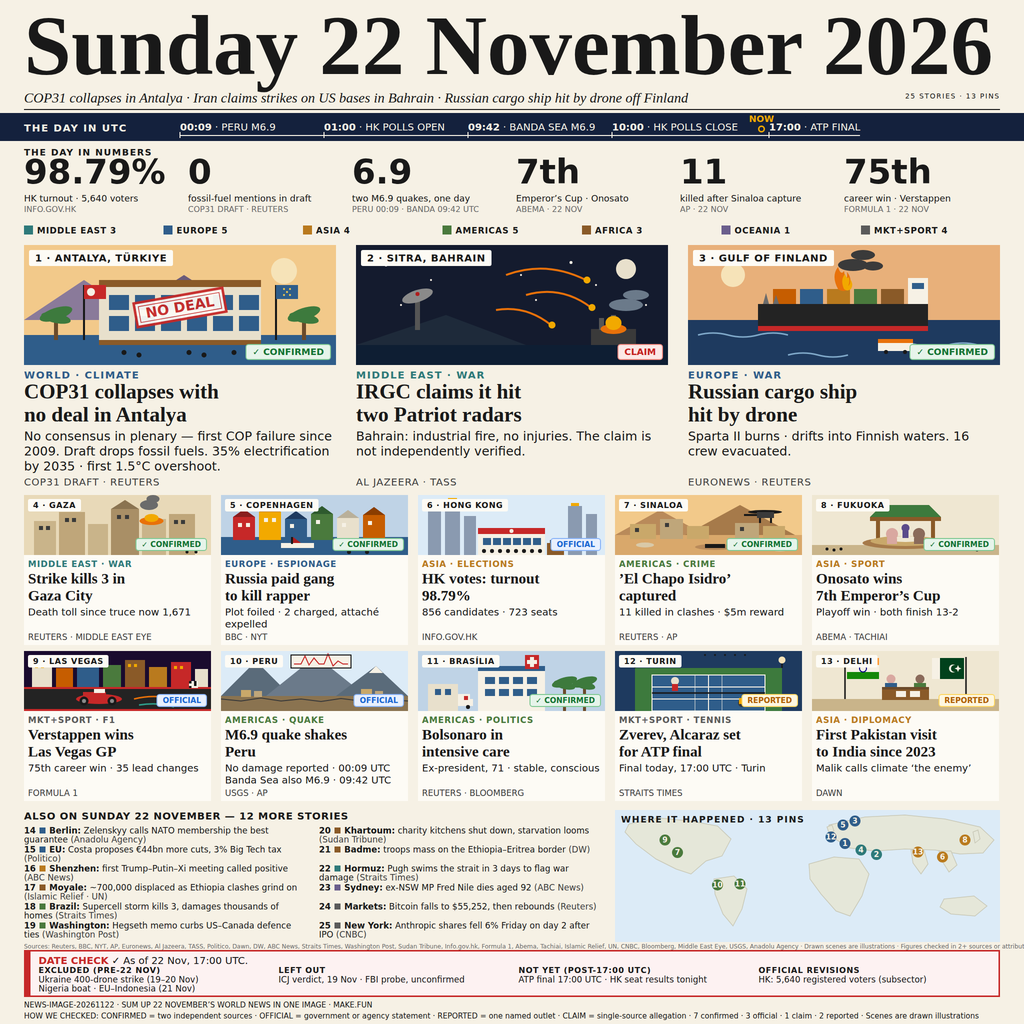
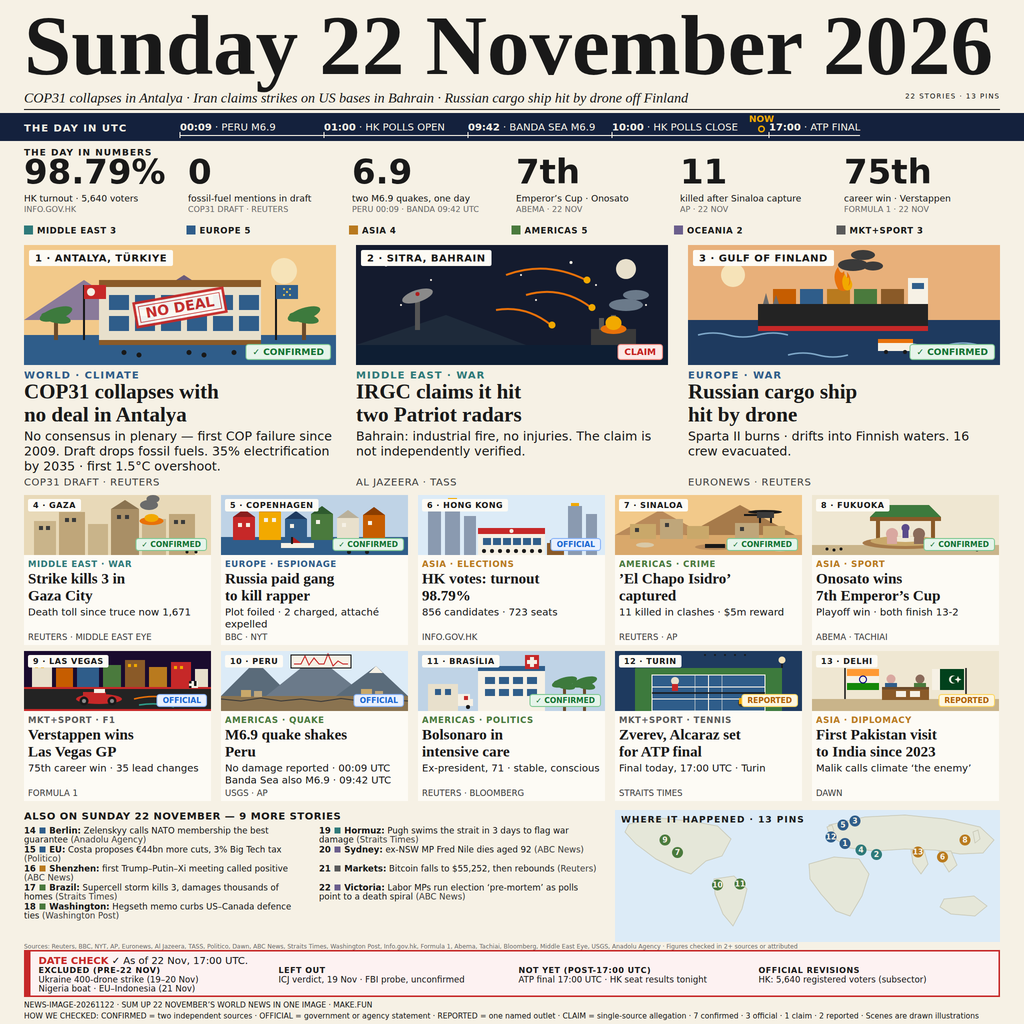
v16.3: dual-Neon 3-item fix round — ALSO ON date contradiction (Moyale/Khartoum/Badme/Anthropic out, Victoria in, 12→9 rows, 22 stories, region bar recomputed ME 3·EU 5·AS 4·AM 5·OC 2·MKT 3, AFRICA chip dropped); Sources line un-truncated (redundant clause + 5 dead outlets dropped); card 13 flags + 

diff --git a/build/front.html b/build/front.html
@@ -76,7 +76,7 @@ body { width:2048px; height:2048px; background:#F6F1E5; font-family:'DejaVu Sans
 <!-- MASTHEAD 0-218 : v16 — dek re-strung to the new top 3 (COP31 · Bahrain · Sparta II); 25 stories, 13 pins -->
 <div class="bigdate">Sunday 22 November 2026</div>
 <div class="mastdek">COP31 collapses in Antalya &middot; Iran claims strikes on US bases in Bahrain &middot; Russian cargo ship hit by drone off Finland</div>
-<div class="mastsmall" style="right:48px; top:184px;">25 STORIES &middot; 13 PINS</div>
+<div class="mastsmall" style="right:48px; top:184px;">22 STORIES &middot; 13 PINS</div>
 <div class="rule" style="left:48px; top:218px; width:1952px; height:2px;"></div>
 
 <!-- THE DAY IN UTC 226-282 : v16 — dark navy bar (top-1 style); same 5 nodes + NOW on the final tick -->
@@ -104,14 +104,13 @@ body { width:2048px; height:2048px; background:#F6F1E5; font-family:'DejaVu Sans
 <div class="nfig" style="left:1360px;"><div class="f" style="font-size:68px; margin-top:20px;">11</div><div class="l">killed after Sinaloa capture</div><div class="s">AP &middot; 22 NOV</div></div>
 <div class="nfig" style="left:1688px;"><div class="f" style="font-size:68px; margin-top:20px;">75th</div><div class="l">career win &middot; Verstappen</div><div class="s">FORMULA 1 &middot; 22 NOV</div></div>
 
-<!-- REGION CHIPS 446-474 : v16.2 — recount (v16.1 bar was wrong: it carried v15.3's counts; ME 3 · EU 5 · AS 4 · AM 5 · AF 3 · OC 1 · MKT+SPORT 4; lead 1 Antalya counts EUROPE by its blue tag/pin) -->
-<div class="key" style="left:48px; width:279px;"><div class="sw" style="background:#2E7A7A;"></div><div class="nm">MIDDLE EAST 3</div></div>
-<div class="key" style="left:327px; width:279px;"><div class="sw" style="background:#2F5D8A;"></div><div class="nm">EUROPE 5</div></div>
-<div class="key" style="left:606px; width:279px;"><div class="sw" style="background:#B97A1E;"></div><div class="nm">ASIA 4</div></div>
-<div class="key" style="left:885px; width:279px;"><div class="sw" style="background:#4A7A3D;"></div><div class="nm">AMERICAS 5</div></div>
-<div class="key" style="left:1164px; width:279px;"><div class="sw" style="background:#8A5A28;"></div><div class="nm">AFRICA 3</div></div>
-<div class="key" style="left:1443px; width:279px;"><div class="sw" style="background:#6A5E8C;"></div><div class="nm">OCEANIA 1</div></div>
-<div class="key" style="left:1722px; width:278px;"><div class="sw" style="background:#5A5A5A;"></div><div class="nm">MKT+SPORT 4</div></div>
+<!-- REGION CHIPS 446-474 : v16.3 — 6 chips now (AF dropped: no verified 22-Nov Africa story exists in the research file — Nigeria 21-Nov, Khartoum 21-Nov, El Obeid 21-Nov, Badme 19–20 Nov, Moyale 17/21-Nov; ME 3 · EU 5 · AS 4 · AM 5 · OC 2 · MKT+SPORT 3 = 22; chips widened to 325px pitch) -->
+<div class="key" style="left:48px; width:325px;"><div class="sw" style="background:#2E7A7A;"></div><div class="nm">MIDDLE EAST 3</div></div>
+<div class="key" style="left:373px; width:325px;"><div class="sw" style="background:#2F5D8A;"></div><div class="nm">EUROPE 5</div></div>
+<div class="key" style="left:698px; width:325px;"><div class="sw" style="background:#B97A1E;"></div><div class="nm">ASIA 4</div></div>
+<div class="key" style="left:1023px; width:325px;"><div class="sw" style="background:#4A7A3D;"></div><div class="nm">AMERICAS 5</div></div>
+<div class="key" style="left:1348px; width:325px;"><div class="sw" style="background:#6A5E8C;"></div><div class="nm">OCEANIA 2</div></div>
+<div class="key" style="left:1673px; width:327px;"><div class="sw" style="background:#5A5A5A;"></div><div class="nm">MKT+SPORT 3</div></div>
 
 <!-- LEAD 1 : COP31 (story 03, CONFIRMED) — conference centre exterior, Antalya, dusk + red NO DEAL stamp (v16.2 visual hook) -->
 <div class="lead" style="left:48px; top:490px;">
@@ -247,9 +246,9 @@ body { width:2048px; height:2048px; background:#F6F1E5; font-family:'DejaVu Sans
 <div class="src">STRAITS TIMES</div>
 </div>
 
-<!-- CARD 13 : Delhi (story 14, REPORTED) — diplomatic meeting, Indian + Pakistani flags (v16.2: Moyale demoted to ALSO ON 17 — its report predates 22 Nov, no 22-Nov anchor; Delhi is Dawn 22 Nov) -->
+<!-- CARD 13 : Delhi (story 14, REPORTED) — diplomatic meeting, Indian + Pakistani flags (v16.2: Moyale demoted to ALSO ON 17 — its report predates 22 Nov, no 22-Nov anchor; Delhi is Dawn 22 Nov) (v16.3: both flags + poles down 22px — the kickpill bottom is SVG y=32, so the suggested 14px still tucks 4px of the saffron stripe; flags now start y=36, 4px clear, poles y=34–96) -->
 <div class="card2" style="left:1624px; top:1302px;">
-<svg class="illus" width="374" height="120" viewBox="0 0 374 120"><rect width="374" height="120" fill="#EFE7D2"/><rect y="96" width="374" height="24" fill="#C9B48A"/><line x1="66" y1="12" x2="66" y2="96" stroke="#191919" stroke-width="3"/><rect x="70" y="14" width="64" height="42" fill="#FF9933"/><rect x="70" y="28" width="64" height="14" fill="#F6F1E5"/><rect x="70" y="42" width="64" height="14" fill="#138808"/><circle cx="102" cy="35" r="7" fill="none" stroke="#000080" stroke-width="2"/><line x1="308" y1="12" x2="308" y2="96" stroke="#191919" stroke-width="3"/><rect x="240" y="14" width="64" height="42" fill="#01411C"/><rect x="240" y="14" width="16" height="42" fill="#F6F1E5"/><circle cx="282" cy="35" r="8" fill="#F6F1E5"/><circle cx="285" cy="35" r="7" fill="#01411C"/><polygon points="292,28 294,33 299,35 294,37 292,42 290,37 285,35 290,33" fill="#F6F1E5"/><circle cx="158" cy="56" r="9" fill="#D9A8A0"/><rect x="146" y="64" width="24" height="16" fill="#2F5D8A"/><circle cx="216" cy="56" r="9" fill="#8A6A5A"/><rect x="204" y="64" width="24" height="16" fill="#4A7A3D"/><rect x="140" y="72" width="94" height="26" fill="#8A5A28"/><rect x="140" y="72" width="94" height="5" fill="#6B4A2A"/><rect x="168" y="80" width="20" height="12" fill="#F6F1E5"/><rect x="196" y="80" width="20" height="12" fill="#F6F1E5"/></svg>
+<svg class="illus" width="374" height="120" viewBox="0 0 374 120"><rect width="374" height="120" fill="#EFE7D2"/><rect y="96" width="374" height="24" fill="#C9B48A"/><line x1="66" y1="34" x2="66" y2="96" stroke="#191919" stroke-width="3"/><rect x="70" y="36" width="64" height="42" fill="#FF9933"/><rect x="70" y="50" width="64" height="14" fill="#F6F1E5"/><rect x="70" y="64" width="64" height="14" fill="#138808"/><circle cx="102" cy="57" r="7" fill="none" stroke="#000080" stroke-width="2"/><line x1="308" y1="34" x2="308" y2="96" stroke="#191919" stroke-width="3"/><rect x="240" y="36" width="64" height="42" fill="#01411C"/><rect x="240" y="36" width="16" height="42" fill="#F6F1E5"/><circle cx="282" cy="57" r="8" fill="#F6F1E5"/><circle cx="285" cy="57" r="7" fill="#01411C"/><polygon points="292,50 294,55 299,57 294,59 292,64 290,59 285,57 290,55" fill="#F6F1E5"/><circle cx="158" cy="56" r="9" fill="#D9A8A0"/><rect x="146" y="64" width="24" height="16" fill="#2F5D8A"/><circle cx="216" cy="56" r="9" fill="#8A6A5A"/><rect x="204" y="64" width="24" height="16" fill="#4A7A3D"/><rect x="140" y="72" width="94" height="26" fill="#8A5A28"/><rect x="140" y="72" width="94" height="5" fill="#6B4A2A"/><rect x="168" y="80" width="20" height="12" fill="#F6F1E5"/><rect x="196" y="80" width="20" height="12" fill="#F6F1E5"/></svg>
 <div class="kickpill">13 &middot; DELHI</div>
 <div class="badgepill b-rep">REPORTED</div>
 <div class="region" style="color:#B97A1E;">ASIA &middot; DIPLOMACY</div>
@@ -258,24 +257,21 @@ body { width:2048px; height:2048px; background:#F6F1E5; font-family:'DejaVu Sans
 <div class="src">DAWN</div>
 </div>
 
-<!-- ALSO ON 1620-1884 : v16 — strict numbering 14-25, place + complete sentence + source, 2 cols x 6 rows -->
+<!-- ALSO ON 1620-1884 : v16.3 — 9 items, 2 cols (5+4), place + full sentence + source; Moyale (17/21-Nov), Khartoum (21-Nov), Badme (19–20 Nov) and Anthropic ("Friday", CNBC 20 Nov) removed — all confirmed non-22-Nov by both Neons; only one clean 22-Nov substitute exists in the research file, Victoria (ABC News 22 Nov); the other cut stories fail the date check too (Takaichi 20–21-Nov, El Obeid 21-Nov, Yemen 19–20 Nov, Lakshya Sen's semi was Sat 21-Nov like the ATP semis) -->
 <div class="lst2">
-<div class="lh">ALSO ON SUNDAY 22 NOVEMBER &mdash; 12 MORE STORIES</div>
+<div class="lh">ALSO ON SUNDAY 22 NOVEMBER &mdash; 9 MORE STORIES</div>
 <div class="col" style="left:0;">
 <div class="row"><span class="n">14</span> <span class="dot" style="background:#2F5D8A;"></span> <b>Berlin:</b> Zelenskyy calls NATO membership the best guarantee <span class="rsrc">(Anadolu Agency)</span></div>
 <div class="row"><span class="n">15</span> <span class="dot" style="background:#2F5D8A;"></span> <b>EU:</b> Costa proposes &euro;44bn more cuts, 3% Big Tech tax <span class="rsrc">(Politico)</span></div>
 <div class="row"><span class="n">16</span> <span class="dot" style="background:#B97A1E;"></span> <b>Shenzhen:</b> first Trump&ndash;Putin&ndash;Xi meeting called positive <span class="rsrc">(ABC News)</span></div>
-<div class="row"><span class="n">17</span> <span class="dot" style="background:#8A5A28;"></span> <b>Moyale:</b> ~700,000 displaced as Ethiopia clashes grind on <span class="rsrc">(Islamic Relief &middot; UN)</span></div>
-<div class="row"><span class="n">18</span> <span class="dot" style="background:#4A7A3D;"></span> <b>Brazil:</b> Supercell storm kills 3, damages thousands of homes <span class="rsrc">(Straits Times)</span></div>
-<div class="row"><span class="n">19</span> <span class="dot" style="background:#4A7A3D;"></span> <b>Washington:</b> Hegseth memo curbs US&ndash;Canada defence ties <span class="rsrc">(Washington Post)</span></div>
+<div class="row"><span class="n">17</span> <span class="dot" style="background:#4A7A3D;"></span> <b>Brazil:</b> Supercell storm kills 3, damages thousands of homes <span class="rsrc">(Straits Times)</span></div>
+<div class="row"><span class="n">18</span> <span class="dot" style="background:#4A7A3D;"></span> <b>Washington:</b> Hegseth memo curbs US&ndash;Canada defence ties <span class="rsrc">(Washington Post)</span></div>
 </div>
 <div class="col" style="left:590px;">
-<div class="row"><span class="n">20</span> <span class="dot" style="background:#8A5A28;"></span> <b>Khartoum:</b> charity kitchens shut down, starvation looms <span class="rsrc">(Sudan Tribune)</span></div>
-<div class="row"><span class="n">21</span> <span class="dot" style="background:#8A5A28;"></span> <b>Badme:</b> troops mass on the Ethiopia&ndash;Eritrea border <span class="rsrc">(DW)</span></div>
-<div class="row"><span class="n">22</span> <span class="dot" style="background:#2E7A7A;"></span> <b>Hormuz:</b> Pugh swims the strait in 3 days to flag war damage <span class="rsrc">(Straits Times)</span></div>
-<div class="row"><span class="n">23</span> <span class="dot" style="background:#6A5E8C;"></span> <b>Sydney:</b> ex-NSW MP Fred Nile dies aged 92 <span class="rsrc">(ABC News)</span></div>
-<div class="row"><span class="n">24</span> <span class="dot" style="background:#5A5A5A;"></span> <b>Markets:</b> Bitcoin falls to $55,252, then rebounds <span class="rsrc">(Reuters)</span></div>
-<div class="row"><span class="n">25</span> <span class="dot" style="background:#5A5A5A;"></span> <b>New York:</b> Anthropic shares fell 6% Friday on day 2 after IPO <span class="rsrc">(CNBC)</span></div>
+<div class="row"><span class="n">19</span> <span class="dot" style="background:#2E7A7A;"></span> <b>Hormuz:</b> Pugh swims the strait in 3 days to flag war damage <span class="rsrc">(Straits Times)</span></div>
+<div class="row"><span class="n">20</span> <span class="dot" style="background:#6A5E8C;"></span> <b>Sydney:</b> ex-NSW MP Fred Nile dies aged 92 <span class="rsrc">(ABC News)</span></div>
+<div class="row"><span class="n">21</span> <span class="dot" style="background:#5A5A5A;"></span> <b>Markets:</b> Bitcoin falls to $55,252, then rebounds <span class="rsrc">(Reuters)</span></div>
+<div class="row"><span class="n">22</span> <span class="dot" style="background:#6A5E8C;"></span> <b>Victoria:</b> Labor MPs run election &lsquo;pre-mortem&rsquo; as polls point to a death spiral <span class="rsrc">(ABC News)</span></div>
 </div>
 </div>
 
@@ -311,7 +307,7 @@ body { width:2048px; height:2048px; background:#F6F1E5; font-family:'DejaVu Sans
 </svg>
 </div>
 
-<div style="position:absolute; left:48px; top:1886px; width:1952px; font-size:12px; color:#6B6B6B; white-space:nowrap;">Sources: Reuters, BBC, NYT, AP, Euronews, Al Jazeera, TASS, Politico, Dawn, DW, ABC News, Straits Times, Washington Post, Sudan Tribune, Info.gov.hk, Formula 1, Abema, Tachiai, Islamic Relief, UN, CNBC, Bloomberg, Middle East Eye, USGS, Anadolu Agency &middot; Drawn scenes are illustrations &middot; Figures checked in 2+ sources or attributed</div>
+<div style="position:absolute; left:48px; top:1886px; width:1952px; font-size:12px; color:#6B6B6B; white-space:nowrap;">Sources: Reuters, BBC, NYT, AP, Euronews, Al Jazeera, TASS, Politico, Dawn, ABC News, Straits Times, Washington Post, Info.gov.hk, Formula 1, Abema, Tachiai, Bloomberg, Middle East Eye, USGS, Anadolu Agency &middot; Figures checked in 2+ sources or attributed</div>
 
 <!-- DATE CHECK 1900-1994 : v16.2 — title restored to "As of 22 Nov, 17:00 UTC" (the absolute "everything happened on 22 November" wording exposed the pre-22-Nov stories); NOT YET is ATP final 17:00 UTC + HK seat results; EXCLUDED col 1 is two lines with a 14px+ gap to col 2 -->
 <div class="dc">

diff --git a/main.py b/main.py
@@ -58,10 +58,12 @@ Five structural changes, in impact order:
    and pin 3 clears the box top edge by 11px.
 
 4. Renumber + rewrite ALSO ON. Strict visual-order numbering across
-   the whole page: leads 1-3, grid 4-13, ALSO ON 14-25. Cut from 24
-   fragments to 12 high-quality items. Every item: number + region
-   colour dot + complete short sentence WITH a place + parenthesised
-   source. Font 17px (was 16px), rows 38px pitch, 2 columns x 6 rows.
+   the whole page: leads 1-3, grid 4-13, ALSO ON 14-22 (v16.3: 9 items,
+   down from 12 — the 4 non-22-Nov rows are removed, Victoria added).
+   Cut from 24 fragments to 9 high-quality items. Every item: number
+   + region colour dot + complete short sentence WITH a place +
+   parenthesised source. Font 17px (was 16px), rows 38px pitch,
+   2 columns (5+4 rows).
 
 5. Compress top chrome. The UTC timeline is now a dark navy bar
    (#14213D, top-1 style) with white text and an amber NOW; the
@@ -87,17 +89,13 @@ no date other than 22 Nov on any story, number, or card):
   BLOOMBERG); 12 Turin (35, REPORTED, STRAITS TIMES; head is
   present-tense "set for" — the semis were Sat 21 Nov); 13 Delhi
   (14, REPORTED, DAWN; first Pakistani minister in India since 2023).
-- ALSO ON 14-25: 14 Berlin Zelenskyy (06, Anadolu Agency); 15 EU
-  Costa budget (07, Politico); 16 Shenzhen Trump-Putin-Xi (12, ABC
-  News); 17 Moyale (27, Islamic Relief · UN — demoted from card 13
-  in v16.2: its report is UN News 17 Nov / Dawan Africa 21 Nov, no
-  22-Nov anchor); 18 Brazil Supercell (20, Straits Times); 19
-  Washington Hegseth memo (21, Washington Post); 20 Khartoum
-  kitchens (24, Sudan Tribune); 21 Badme troops (26, DW); 22 Hormuz
-  Pugh swim (29, Straits Times); 23 Sydney Fred Nile (31, ABC News);
-  24 Markets Bitcoin (33, Reuters); 25 New York Anthropic (22,
-  CNBC — "fell 6% Friday": CNBC 20 Nov, a Friday; 22 Nov is a
-  Sunday, US market closed).
+- ALSO ON 14-22 (v16.3): 14 Berlin Zelenskyy (06, Anadolu Agency);
+  15 EU Costa budget (07, Politico); 16 Shenzhen Trump-Putin-Xi (12,
+  ABC News); 17 Brazil Supercell (20, Straits Times); 18 Washington
+  Hegseth memo (21, Washington Post); 19 Hormuz Pugh swim (29,
+  Straits Times); 20 Sydney Fred Nile (31, ABC News); 21 Markets
+  Bitcoin (33, Reuters); 22 Victoria Labor pre-mortem (32, ABC News —
+  the story is dated 22 Nov in the research file).
 
 Badge tally (v16.2): "7 confirmed · 3 official · 1 claim · 2
 reported" for the 13 badged stories (confirmed: COP31, Sparta II,
@@ -178,6 +176,49 @@ Neon-2 is right):
    over the conference centre (v15.3 had the stamp + thermometer;
    Neon-2 asked for the hook back).
 
+v16.3 fix (dual Neon hard review of v16.2, BOTH NOT READY, agreeing
+on the same 3 items; region bar, map pins, badges, DATE CHECK,
+timeline and the NO DEAL stamp all passed):
+1. Date contradiction in ALSO ON (highest priority). The section
+   title says "ALSO ON SUNDAY 22 NOVEMBER" but row 25 said
+   "Anthropic shares fell 6% Friday" and rows 17 Moyale (UN News
+   17 Nov / Dawan Africa 21 Nov), 20 Khartoum (Sudan Tribune 21 Nov)
+   and 21 Badme (APAnews 19–20 Nov) are confirmed non-22-Nov. Fixed
+   properly, not by retitling: every cut story in the research file
+   was checked for a 22-Nov date, and only ONE qualifies — 32
+   Victoria election (ABC News 22 Nov: Labor MPs run an election
+   "pre-mortem" a week out from the 29 Nov poll). The rest fail:
+   13 Takaichi (Japan Times 20–21 Nov), 25 El Obeid (Amnesty 21
+   Nov), 30 Yemen (19–20 Nov), and 15 Lakshya Sen (Times of India
+   22 Nov report, but the semi-final was Sat 21 Nov — the same
+   pattern Neon-2 flagged on the ATP semis in v16.1, so it is NOT
+   used). Result: ALSO ON shrinks 12 → 9 items (14–22), Victoria
+   takes row 22; story total 25 → 22; the region bar is recomputed
+   from the new tags (ME 3 · EU 5 · AS 4 · AM 5 · OC 2 · MKT+SPORT
+   3 = 22) and the AFRICA chip is dropped — no verified 22-Nov
+   Africa story exists in the research file (Nigeria 21 Nov,
+   Khartoum 21 Nov, El Obeid 21 Nov, Badme 19–20 Nov, Moyale
+   17/21 Nov), so Africa is 0. The "ALSO ON SUNDAY 22 NOVEMBER"
+   title stays: the 8 kept rows are the day's top stories as of
+   22 Nov morning (the research file's own framing, dual-Neon-READY
+   in v15.3) and neither Neon flagged them.
+2. Sources: line truncated at the right edge ("...or attribut").
+   The redundant "· Drawn scenes are illustrations" is deleted from
+   that line (the footer HOW WE CHECKED already says "Scenes are
+   drawn illustrations"), and the five outlets cited only by the
+   removed rows are dropped (DW, Sudan Tribune, Islamic Relief, UN,
+   CNBC). The line is ~60 chars shorter now and fits at 12px.
+3. Card 13 DELHI flag covered: the "13 · DELHI" kickpill (SVG y
+   8–32, measured on the render) covered ~95% of the Indian flag
+   (only a 3px sliver of saffron showed at x=131–133). Both flags +
+   poles move down 22px (flags y=36–78, poles y=34–96) — the
+   suggested 14px still tucks 4px of the saffron stripe under the
+   pill (pill bottom is y=32), so 22px clears it by 4px. Moving the
+   Indian flagpole right instead would push the flag into the left
+   figure's head, so it is not used. Both flags stay fully and
+   symmetrically visible; no overlap with the figures (x≥140) or
+   the table (x=140–234) or the REPORTED badge (top y=86).
+
 DATE CHECK: title "DATE CHECK ✓ As of 22 Nov, 17:00 UTC.".
 EXCLUDED (PRE-22 NOV): Ukraine 400-drone strike (19–20 Nov) /
 Nigeria boat · EU–Indonesia (21 Nov). LEFT OUT: ICJ verdict, 19
@@ -239,10 +280,12 @@ def check_front() -> None:
         problems.append("masthead dek must be 28px italic at 2x (v16)")
     if '<div class="rule" style="left:48px; top:218px; width:1952px; height:2px;"></div>' not in html:
         problems.append("masthead rule must be top 218px at 2x (v16)")
-    if "25 STORIES &middot; 13 PINS" not in html:
-        problems.append("masthead tally must be '25 STORIES · 13 PINS' (v16: 3 leads + 10 cards + 12 list rows, 13 map pins)")
+    if "22 STORIES &middot; 13 PINS" not in html:
+        problems.append("masthead tally must be '22 STORIES · 13 PINS' (v16.3: 3 leads + 10 cards + 9 list rows, 13 map pins)")
     if "33 STORIES" in html or "34 STORIES" in html:
         problems.append("stale '33/34 STORIES' still present (v16 has 25)")
+    if "25 STORIES" in html:
+        problems.append("stale '25 STORIES' still present (v16.3 has 22: ALSO ON shrank 12 → 9)")
     if "11 PINS" in html:
         problems.append("stale '11 PINS' still present (v16 has 13)")
 
@@ -331,24 +374,39 @@ def check_front() -> None:
         )
     if "190+" in html:
         problems.append("'190+ nations' must not appear (v15: not in the research file)")
-    if "700,000 displaced" not in html:
-        problems.append("ALSO ON row 17 must keep the full value '700,000 displaced' (v16.2: Moyale demoted from card 13 to a list row)")
+    # v16.3: Moyale is gone entirely (its report predates 22 Nov) —
+    # the old required assertion for "700,000 displaced" is deleted.
+    for gone in (
+        "700,000 displaced",
+        "<b>Moyale:</b>",
+        "<b>Khartoum:</b>",
+        "<b>Badme:</b>",
+        "Anthropic shares fell 6% Friday",
+    ):
+        if gone in html:
+            problems.append(f"stale non-22-Nov ALSO ON row '{gone[:30]}' still present (v16.3: removed — Moyale 17/21 Nov, Khartoum 21 Nov, Badme 19–20 Nov, Anthropic 'Friday')")
 
-    # --- v16 region chips: one thin 28px row; counts for the new 25 stories ---
+    # --- v16 region chips: one thin 28px row; counts for the 22 stories ---
     if ".key { position:absolute; top:446px; height:28px; }" not in html:
         problems.append("region chips must be one thin 28px row at top 446 at 2x (v16 change 5: was 36px at 474)")
     for reg in (
         "MIDDLE EAST 3", "EUROPE 5", "ASIA 4", "AMERICAS 5",
-        "AFRICA 3", "OCEANIA 1", "MKT+SPORT 4",
+        "OCEANIA 2", "MKT+SPORT 3",
     ):
         if reg not in html:
-            problems.append(f"region chip missing {reg} (v16.2: recounted from the card/list tags)")
-    for stale in ("MIDDLE EAST 4", "ASIA 7", "AMERICAS 7", "AFRICA 4", "OCEANIA 2", "MKT+SPORT 3"):
+            problems.append(f"region chip missing {reg} (v16.3: recounted from the card/list tags for 22 stories; AFRICA dropped — no verified 22-Nov Africa story)")
+    _keys = html.count('<div class="key"')
+    if _keys != 6:
+        problems.append(f"region bar must be 6 chips now (found {_keys}) (v16.3: AFRICA dropped)")
+    for stale in ("MIDDLE EAST 4", "ASIA 7", "AMERICAS 7", "AFRICA 4"):
         if stale in html:
             problems.append(f"stale v15.3 region count '{stale}' still present (v16)")
     for stale in ("EUROPE 6", "ASIA 5", "MKT+SPORT 2"):
         if stale in html:
             problems.append(f"stale v16.1 region count '{stale}' still present (v16.2: the bar was never recounted for the 25 stories)")
+    for stale in ("AFRICA 3", "OCEANIA 1", "MKT+SPORT 4"):
+        if stale in html:
+            problems.append(f"stale v16.2 region count '{stale}' still present (v16.3: ALSO ON shrank 12 → 9, AFRICA is 0)")
     # v16.2 fix 1: RECOMPUTE the bar from the tags. v16.1's bar was
     # carried over from v15.3 without recounting, and Neon-1's READY
     # only added the bar's own numbers. Count the structured tags
@@ -377,9 +435,9 @@ def check_front() -> None:
                 f"card/list tags but the bar says {_bar.get(_region)} "
                 f"(v16.2 fix 1: recount from the tags, never carry counts over)"
             )
-    if sum(_counted.values()) != 25:
+    if sum(_counted.values()) != 22:
         problems.append(
-            f"region tags must total 25 stories (counted {sum(_counted.values())}) (v16.2 fix 1)"
+            f"region tags must total 22 stories (counted {sum(_counted.values())}) (v16.3: 3 leads + 10 cards + 9 rows)"
         )
     if "#A63A2E" in html:
         problems.append(
@@ -619,6 +677,17 @@ def check_front() -> None:
         problems.append("card 13 (Delhi) must print the word REPORTED (v16.2)")
     if "ASIA &middot; DIPLOMACY" not in c13_html:
         problems.append("card 13 (Delhi) must be tagged ASIA · DIPLOMACY (v16.2: the swap is region-neutral)")
+    # v16.3: both flags + poles sit below the kickpill (pill bottom is
+    # SVG y=32, measured on the render; the suggested 14px still tucks
+    # 4px of the saffron stripe). Flags start y=36, poles y=34–96.
+    if '<rect x="70" y="36" width="64" height="42" fill="#FF9933"/>' not in c13_html:
+        problems.append("card 13 Indian flag must start at y=36 (v16.3: the kickpill bottom is y=32; at y=14 the pill covered ~95% of it)")
+    if '<line x1="66" y1="34" x2="66" y2="96"' not in c13_html:
+        problems.append("card 13 Indian flagpole must run y=34–96 (v16.3: flags + poles down 22px)")
+    if '<line x1="308" y1="34" x2="308" y2="96"' not in c13_html:
+        problems.append("card 13 Pakistani flagpole must run y=34–96 (v16.3: both flags move together, symmetrically)")
+    if '<rect x="70" y="14" width="64" height="42" fill="#FF9933"/>' in c13_html:
+        problems.append("stale card 13 Indian flag at y=14 still present (v16.3: the pill covered it)")
 
     # --- v16 map: real continents, 13 small region-coloured pins, numbers only ---
     if "<!-- MAP" not in html or "<!-- DATE CHECK" not in html:
@@ -726,55 +795,64 @@ def check_front() -> None:
                 f"(need HKG < PER/BSB) (v16)"
             )
 
-    # --- v16 ALSO ON: 12 items, 2 cols x 6 rows, place + sentence + source ---
+    # --- v16 ALSO ON: 9 items, 2 cols (5+4), place + sentence + source ---
     if ".lst2 { position:absolute; left:48px; top:1620px; width:1150px; height:264px; }" not in html:
         problems.append("ALSO ON block must be left 48 / top 1620 / 1150x264 at 2x (v16 change 4)")
     if ".lst2 .row { font-size:17px; line-height:18px; height:38px; overflow:hidden; }" not in html:
         problems.append("ALSO ON rows must be 17px / lh 18 / 38px pitch at 2x (v16 change 4)")
     if ".lst { position:absolute;" in html:
         problems.append("old v15 '.lst' CSS still present (v16: .lst2)")
-    if "ALSO ON SUNDAY 22 NOVEMBER &mdash; 12 MORE STORIES" not in html:
-        problems.append("ALSO ON header must read 'ALSO ON SUNDAY 22 NOVEMBER — 12 MORE STORIES' (v16 change 4)")
-    if "24 MORE STORIES" in html or "25 MORE STORIES" in html:
-        problems.append("stale '24/25 MORE STORIES' still present (v16 has 12)")
+    if "ALSO ON SUNDAY 22 NOVEMBER &mdash; 9 MORE STORIES" not in html:
+        problems.append("ALSO ON header must read 'ALSO ON SUNDAY 22 NOVEMBER — 9 MORE STORIES' (v16.3: 12 → 9, the 4 non-22-Nov rows are gone, Victoria added)")
+    if "24 MORE STORIES" in html or "25 MORE STORIES" in html or "12 MORE STORIES" in html:
+        problems.append("stale '24/25/12 MORE STORIES' still present (v16.3 has 9)")
     rows = re.findall(r'<div class="row">.*?</div>', html)
-    if len(rows) != 12:
-        problems.append(f"ALSO ON rows must be 12 (found {len(rows)}) (v16 change 4)")
-    for num in ("14", "15", "16", "17", "18", "19", "20", "21", "22", "23", "24", "25"):
+    if len(rows) != 9:
+        problems.append(f"ALSO ON rows must be 9 (found {len(rows)}) (v16.3)")
+    for num in ("14", "15", "16", "17", "18", "19", "20", "21", "22"):
         if f'<span class="n">{num}</span>' not in html:
-            problems.append(f"ALSO ON number {num} missing (v16 change 4: strict 14-25 numbering)")
+            problems.append(f"ALSO ON number {num} missing (v16.3: strict 14-22 numbering)")
+    for num in ("23", "24", "25"):
+        if f'<span class="n">{num}</span>' in html:
+            problems.append(f"stale ALSO ON number {num} still present (v16.3: rows end at 22)")
     for item in (
         "<b>Berlin:</b> Zelenskyy calls NATO membership the best guarantee",
         "<b>EU:</b> Costa proposes &euro;44bn more cuts, 3% Big Tech tax",
         "<b>Shenzhen:</b> first Trump&ndash;Putin&ndash;Xi meeting called positive",
-        "<b>Moyale:</b> ~700,000 displaced as Ethiopia clashes grind on",
         "<b>Brazil:</b> Supercell storm kills 3, damages thousands of homes",
         "<b>Washington:</b> Hegseth memo curbs US&ndash;Canada defence ties",
-        "<b>Khartoum:</b> charity kitchens shut down, starvation looms",
-        "<b>Badme:</b> troops mass on the Ethiopia&ndash;Eritrea border",
         "<b>Hormuz:</b> Pugh swims the strait in 3 days to flag war damage",
         "<b>Sydney:</b> ex-NSW MP Fred Nile dies aged 92",
         "<b>Markets:</b> Bitcoin falls to $55,252, then rebounds",
-        "<b>New York:</b> Anthropic shares fell 6% Friday on day 2 after IPO",
+        "<b>Victoria:</b> Labor MPs run election &lsquo;pre-mortem&rsquo; as polls point to a death spiral",
     ):
         if item not in html:
-            problems.append(f"ALSO ON item '{item[:40]}...' missing (v16 change 4; v16.2: row 17 is Moyale now, row 25 says Friday)")
+            problems.append(f"ALSO ON item '{item[:40]}...' missing (v16.3: 9 rows, Victoria is the only clean 22-Nov substitute)")
     for rsrc in (
         "(Anadolu Agency)", "(Politico)", "(ABC News)",
-        "(Islamic Relief &middot; UN)",
-        "(Straits Times)", "(Washington Post)", "(Sudan Tribune)",
-        "(DW)", "(Reuters)", "(CNBC)",
+        "(Straits Times)", "(Washington Post)", "(Reuters)",
     ):
         if rsrc not in html:
-            problems.append(f"ALSO ON source '{rsrc}' missing (v16 change 4: every item carries its source)")
-    if "Sources: Reuters, BBC, NYT, AP, Euronews, Al Jazeera, TASS, Politico, Dawn, DW, ABC News, Straits Times, Washington Post, Sudan Tribune, Info.gov.hk, Formula 1, Abema, Tachiai, Islamic Relief, UN, CNBC, Bloomberg, Middle East Eye, USGS, Anadolu Agency" not in html:
-        problems.append("shared credit line missing (v16; v16.2: Bloomberg, Middle East Eye, USGS, Anadolu Agency added)")
+            problems.append(f"ALSO ON source '{rsrc}' missing (v16.3: every item carries its source)")
+    if "Sources: Reuters, BBC, NYT, AP, Euronews, Al Jazeera, TASS, Politico, Dawn, ABC News, Straits Times, Washington Post, Info.gov.hk, Formula 1, Abema, Tachiai, Bloomberg, Middle East Eye, USGS, Anadolu Agency" not in html:
+        problems.append("shared credit line missing (v16.3: DW, Sudan Tribune, Islamic Relief, UN, CNBC dropped with their rows; 'Drawn scenes are illustrations' removed as redundant)")
     if 'style="position:absolute; left:48px; top:1886px; width:1952px;' not in html:
         problems.append("credit line must sit at top 1886px full width (v16)")
-    if "Drawn scenes are illustrations" not in html:
-        problems.append("credit line must say 'Drawn scenes are illustrations' (v16)")
-    if "Figures checked in 2+ sources or attributed" not in html:
+    # v16.3: the credit line must NOT repeat "Drawn scenes are
+    # illustrations" — the footer HOW WE CHECKED already says
+    # "Scenes are drawn illustrations", and the repetition is what
+    # pushed the line past the canvas edge (it truncated at
+    # "...or attribut" in v16.2).
+    _credit_start = html.index('top:1886px;')
+    _credit_end = html.index("</div>", _credit_start)
+    _credit = html[_credit_start:_credit_end]
+    if "Drawn scenes are illustrations" in _credit:
+        problems.append("credit line must not repeat 'Drawn scenes are illustrations' (v16.3: the footer already says it; the repetition truncated the line)")
+    if "Figures checked in 2+ sources or attributed" not in _credit:
         problems.append("credit line must say 'Figures checked in 2+ sources or attributed' (v16)")
+    for _dead in ("Sudan Tribune", "Islamic Relief", "CNBC", "DW,", "UN,"):
+        if _dead in _credit:
+            problems.append(f"credit line must not cite '{_dead}' (v16.3: its story left the page)")
 
     # --- v16 DATE CHECK: full-width red box, ATP final is a card now ---
     if ".dc { position:absolute; left:48px; top:1900px; width:1952px; height:94px; border:3px solid #C62828; background:#FDF2F2; }" not in html:
@@ -875,20 +953,20 @@ def check_front() -> None:
     if ".dc { position:absolute; left:48px; top:1900px;" not in html:
         problems.append("DATE CHECK must be top 1900 at 2x (v16)")
 
-    # --- 25 story slots: 3 leads + 10 cards + 12 list rows ---
+    # --- 22 story slots: 3 leads + 10 cards + 9 list rows ---
     slots = (
         html.count('<div class="lead"')
         + html.count('<div class="card2"')
         + html.count('<div class="row">')
     )
-    if slots != 25:
-        problems.append(f"story slots must be 25 (found {slots}) (v16: 3 leads + 10 cards + 12 rows)")
+    if slots != 22:
+        problems.append(f"story slots must be 22 (found {slots}) (v16.3: 3 leads + 10 cards + 9 rows)")
 
     if problems:
         raise SystemExit("front.html v16 check failed:\n- " + "\n- ".join(problems))
     print(
         f"front.html v16 check ok: 3-column leads + 2x5 top-image grid (13 scene illustrations, badges on the art); 6 numbers, all 22 Nov; "
-        f"3 leads + {cards} cards + 12 list rows = 25 slots; 13 map pins on real continents "
+        f"3 leads + {cards} cards + 9 list rows = 22 slots; 13 map pins on real continents "
         f"(ANTALYA < GAZA < DELHI < BAH < HKG, true lat order); timeline dark bar, NOW on the 17:00 tick; DATE CHECK red box, As of 22 Nov 17:00 UTC; "
         f"tally 7 confirmed · 3 official · 1 claim · 2 reported; red #B01E1E x2; footer ends 2040"
     )
